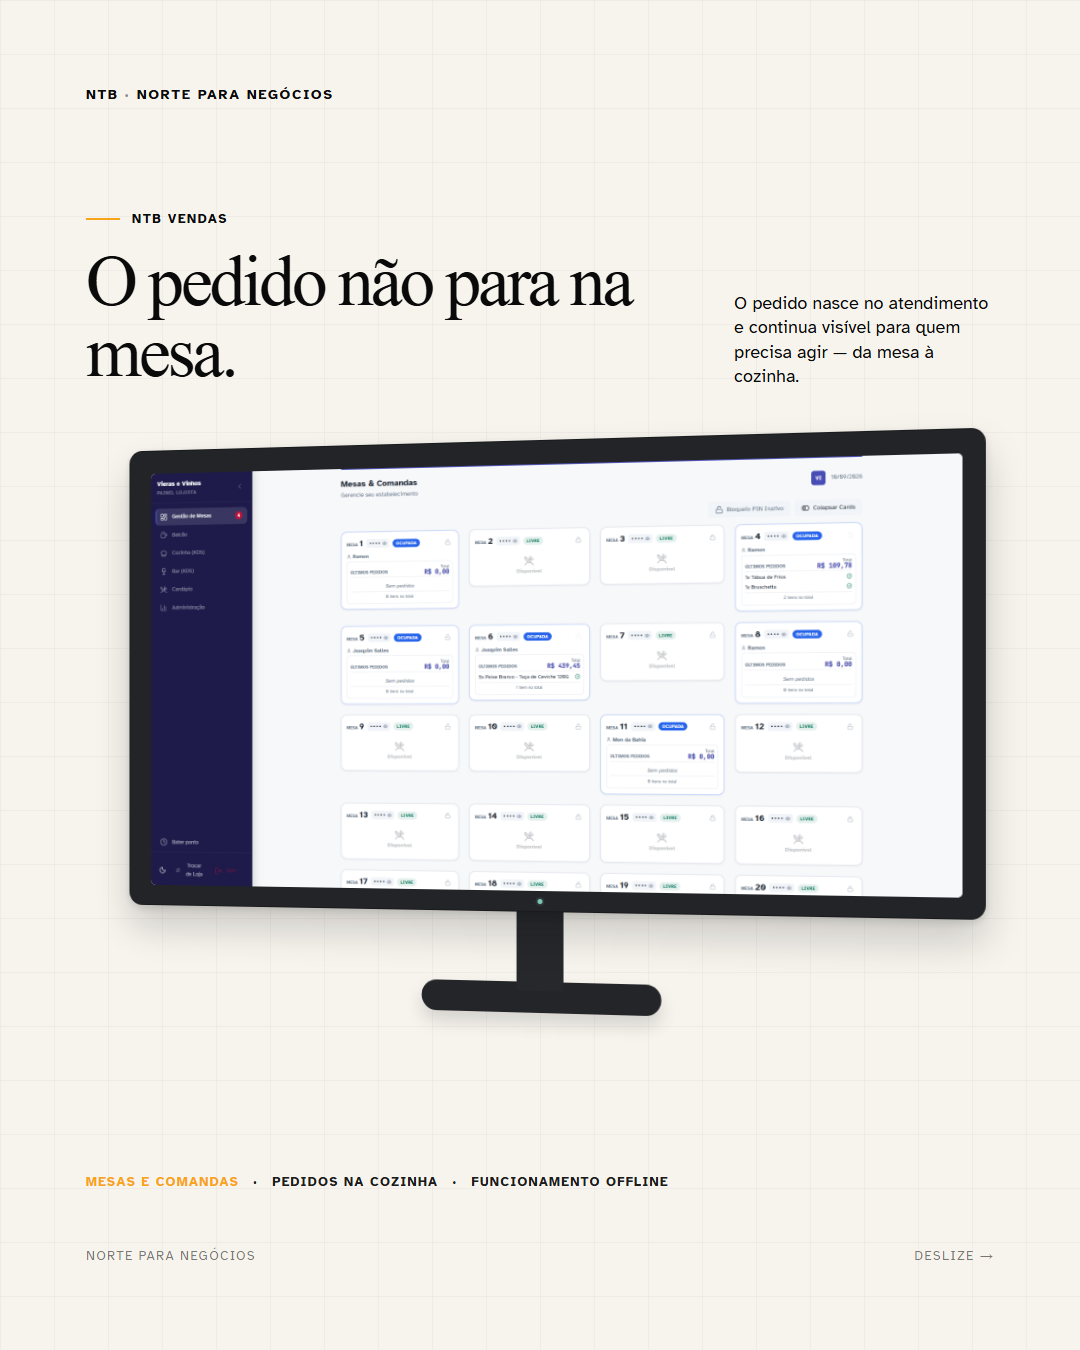
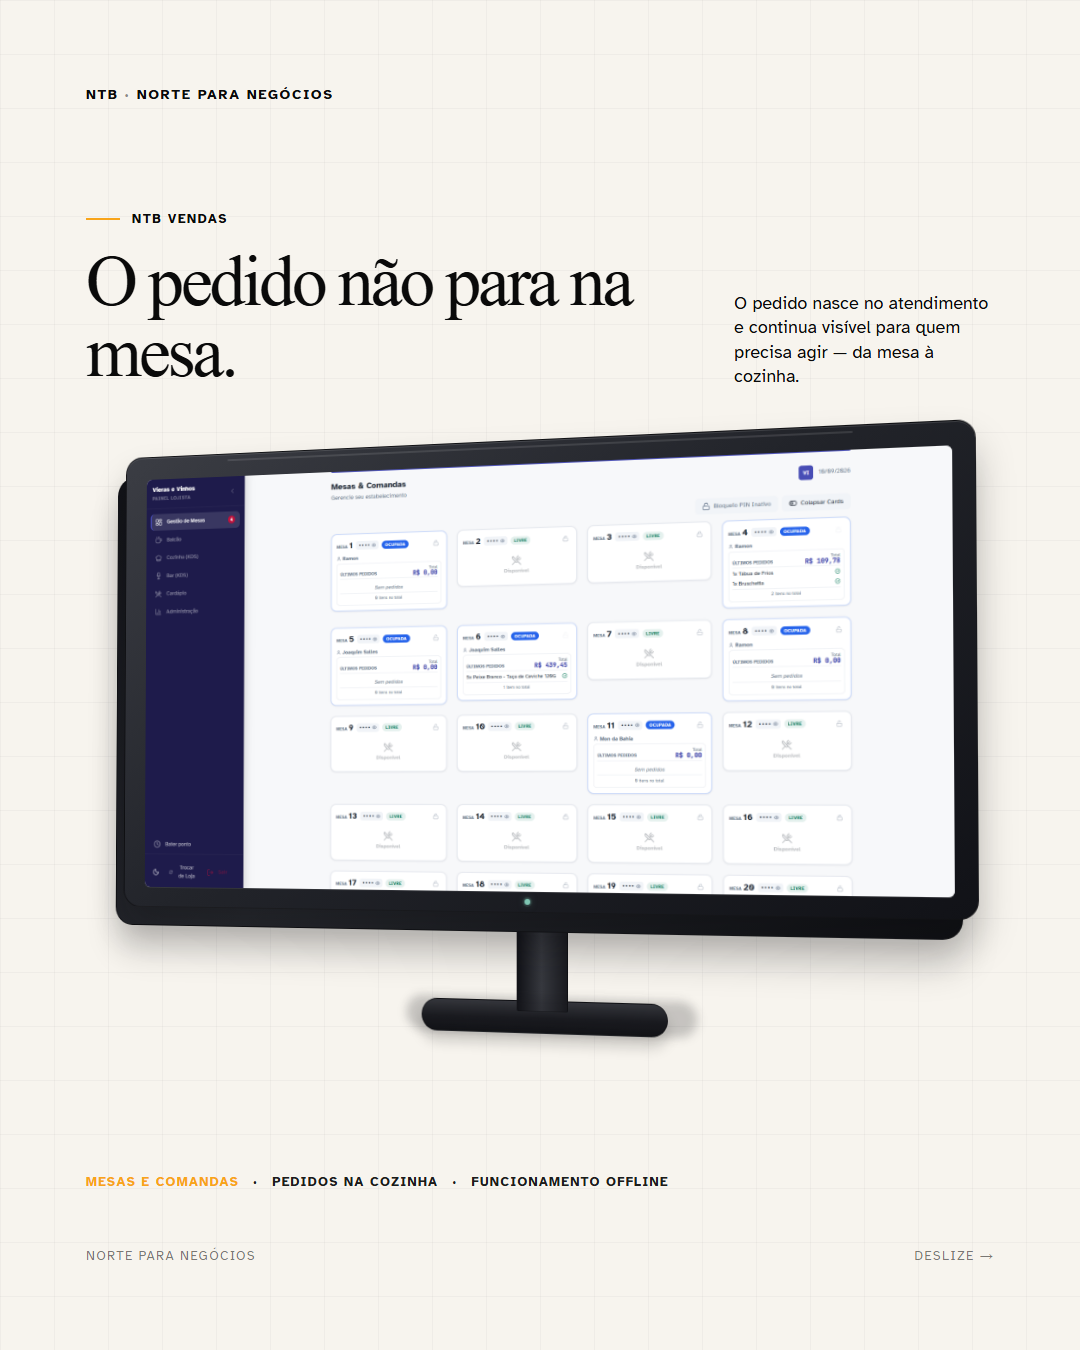
design: aplicar monitor 3d no slide de vendas

diff --git a/src/lib/Monitor3DFrame.tsx b/src/lib/Monitor3DFrame.tsx
@@ -1,0 +1,144 @@
+import React from 'react';
+import {Img} from 'remotion';
+import {MonitorFrameProps} from './types';
+
+/**
+ * Monitor com volume visual para apresentar telas desktop sem transformar o
+ * slide em um mockup exagerado. A tela continua plana e legível; o volume
+ * aparece no corpo, na borda e no suporte.
+ */
+export const Monitor3DFrame: React.FC<MonitorFrameProps> = ({screenshot, width, sourceWidth = 1910, sourceHeight = 984}) => {
+  const bezel = width * 0.026;
+  const depth = width * 0.024;
+  const aspect = sourceWidth / sourceHeight;
+  const screenWidth = width - bezel * 2;
+  const screenHeight = screenWidth / aspect;
+  const frameHeight = screenHeight + bezel * 2;
+  const standHeight = width * 0.115;
+
+  return (
+    <div
+      style={{
+        position: 'relative',
+        width: width + depth,
+        height: frameHeight + standHeight + depth,
+        transform: 'perspective(1900px) rotateY(-14deg) rotateX(1.5deg) rotateZ(-0.4deg)',
+        transformOrigin: '50% 50%',
+        transformStyle: 'preserve-3d',
+      }}
+    >
+      <div
+        style={{
+          position: 'absolute',
+          zIndex: 0,
+          left: '50%',
+          bottom: depth * 0.08,
+          width: width * 0.34,
+          height: width * 0.04,
+          transform: `translateX(-50%) translateX(${depth * 0.42}px)`,
+          borderRadius: 999,
+          background: 'rgba(24,25,29,0.22)',
+          filter: 'blur(5px)',
+        }}
+      />
+      <div
+        style={{
+          position: 'absolute',
+          zIndex: 0,
+          left: '50%',
+          bottom: 0,
+          width: width * 0.29,
+          height: width * 0.038,
+          transform: 'translateX(-50%) translateZ(-10px)',
+          borderRadius: 999,
+          background: 'linear-gradient(180deg, #3b3d43 0%, #191a1f 55%, #101115 100%)',
+          border: '1px solid rgba(8,8,10,0.45)',
+          boxShadow: '0 10px 14px rgba(10,10,10,0.18)',
+        }}
+      />
+      <div
+        style={{
+          position: 'absolute',
+          zIndex: 1,
+          left: '50%',
+          bottom: width * 0.025,
+          width: width * 0.06,
+          height: width * 0.098,
+          transform: 'translateX(-50%) translateZ(-8px)',
+          borderRadius: '4px 4px 2px 2px',
+          background: 'linear-gradient(90deg, #111217 0%, #36383e 48%, #191a1f 100%)',
+          border: '1px solid rgba(8,8,10,0.42)',
+        }}
+      />
+      <div
+        style={{
+          position: 'absolute',
+          zIndex: 1,
+          left: -depth * 0.72,
+          top: depth * 0.92,
+          width,
+          height: frameHeight,
+          borderRadius: 19,
+          background: 'linear-gradient(145deg, #111217 0%, #25272d 52%, #0e0f13 100%)',
+          border: '1px solid rgba(8,8,10,0.5)',
+          boxShadow: '0 26px 34px rgba(16,17,20,0.18)',
+        }}
+      />
+      <div
+        style={{
+          position: 'relative',
+          zIndex: 2,
+          width,
+          height: frameHeight,
+          padding: bezel,
+          borderRadius: 18,
+          background: 'linear-gradient(145deg, #3b3d44 0%, #22242a 47%, #111217 100%)',
+          border: '1px solid rgba(10,10,12,0.62)',
+          boxShadow: '0 22px 36px rgba(10,10,10,0.22), inset 0 1px 0 rgba(255,255,255,0.12)',
+          transform: 'translateZ(12px)',
+        }}
+      >
+        <div
+          style={{
+            position: 'absolute',
+            top: 5,
+            left: width * 0.13,
+            right: width * 0.13,
+            height: 2,
+            borderRadius: 99,
+            background: 'rgba(255,255,255,0.11)',
+          }}
+        />
+        <div
+          style={{
+            position: 'relative',
+            width: screenWidth,
+            height: screenHeight,
+            overflow: 'hidden',
+            borderRadius: 6,
+            background: '#fff',
+            boxShadow: 'inset 0 0 0 1px rgba(0,0,0,0.24), 0 1px 0 rgba(255,255,255,0.08)',
+          }}
+        >
+          <Img
+            src={screenshot}
+            style={{width: screenWidth, height: screenHeight, display: 'block'}}
+          />
+        </div>
+        <div
+          style={{
+            position: 'absolute',
+            bottom: bezel * 0.34,
+            left: '50%',
+            width: 6,
+            height: 6,
+            transform: 'translateX(-50%)',
+            borderRadius: '50%',
+            background: '#7fc7b3',
+            boxShadow: '0 0 0 2px rgba(127,199,179,0.14), 0 0 8px rgba(127,199,179,0.34)',
+          }}
+        />
+      </div>
+    </div>
+  );
+};

diff --git a/src/templates/NorteNtbApresentacao.tsx b/src/templates/NorteNtbApresentacao.tsx
@@ -3,7 +3,7 @@ import {AbsoluteFill, staticFile} from 'remotion';
 import {ensureSansLoaded, ensureNewsreaderLoaded, FONT_SANS, FONT_SERIF_ROTAS} from '../lib/fonts';
 import {GridTexture} from '../lib/GridTexture';
 import {BrowserFrame} from '../lib/DeviceFrame';
-import {MonitorFrame} from '../lib/MonitorFrame';
+import {Monitor3DFrame} from '../lib/Monitor3DFrame';
 import {productColors, neutral, brand} from '../lib/themes';
 import {Mascote} from '../lib/Mascote';
 
@@ -136,7 +136,7 @@ export const CarrosselVendas: React.FC = () => {
           </div>
         </div>
         <div style={{marginTop: 46, display: 'flex', justifyContent: 'center'}}>
-          <MonitorFrame screenshot={staticFile('screenshots/vendas-mesas-comandas.png')} width={874} sourceWidth={1910} sourceHeight={984} />
+          <Monitor3DFrame screenshot={staticFile('screenshots/vendas-mesas-comandas.png')} width={874} sourceWidth={1910} sourceHeight={984} />
         </div>
         <div style={{position: 'absolute', left: 0, bottom: 74, display: 'flex', gap: 14, fontFamily: FONT_SANS, fontWeight: 700, fontSize: 13, letterSpacing: '0.10em', textTransform: 'uppercase', color: neutral.cinzaEscuro}}>
           <span style={{color: productColors.vendas}}>Mesas e comandas</span><span>·</span><span>Pedidos na cozinha</span><span>·</span><span>Funcionamento offline</span>
